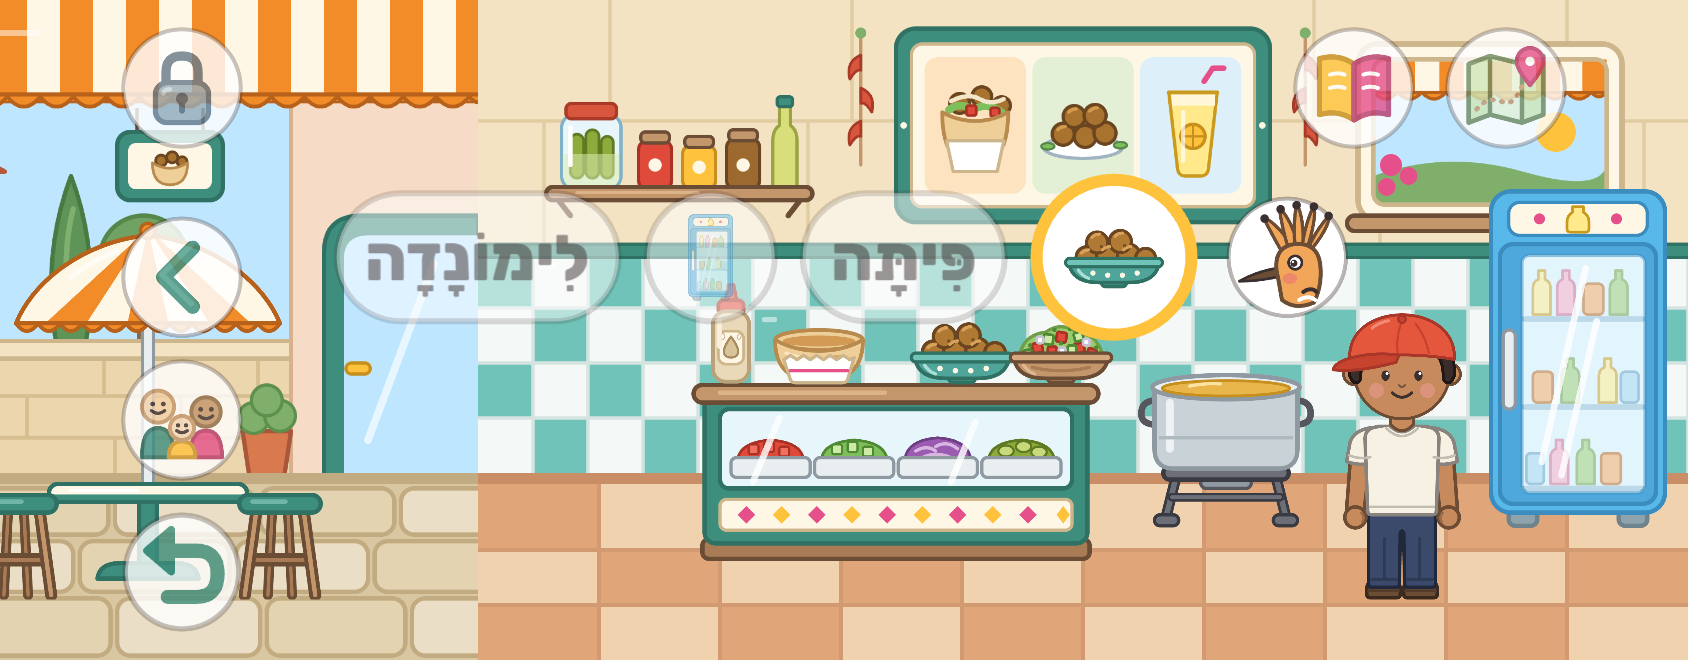
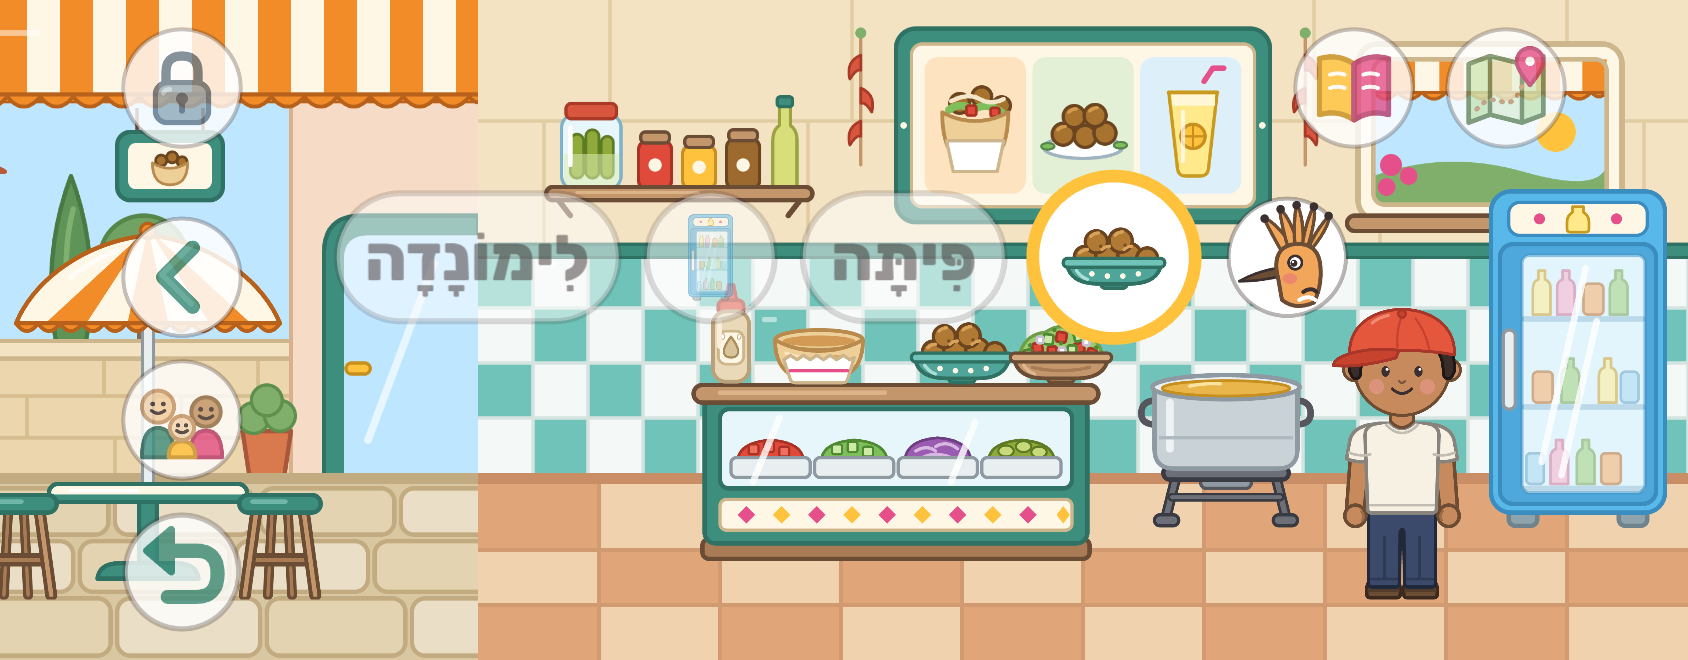
Stories step 2: progress notes, screenshots

Changed region(s): [[0.5853, 0.2424, 0.7085, 0.5455], [0.7701, 0.4545, 0.8626, 0.697], [0.8009, 0.7576, 0.8626, 0.7879]]

diff --git a/docs/progress.md b/docs/progress.md
@@ -440,6 +440,22 @@
 - **סיפור שמסופר שוב לא נותן מדבקה נוספת**, ומסתיים במשפט הסיום בלבד.
 - **כשהסיפורים כבויים אין לשוניות בספר**, והוא נראה בדיוק כמו קודם.
 - **בבדיקות** מסך הגיל מופיע רק עם `?e2e&pick`, כדי ששאר הבדיקות לא ייעצרו עליו.
+- **הדוכיפת עומדת על הקרקע ליד המקום, מימין**, ולא על הגג. על הגג של מקום בשורה העליונה היא הייתה מוסתרת בטלפון מתחת לכפתור הספר. אם היא עדיין יוצאת מהמסך או נכנסת מתחת לכפתורים, היא זזה כמה שצריך.
+- **פתיחה שנקטעה נאמרת שוב.** מי שנכנס למקום לפני שהדוכיפת סיימה לומר את משפט הפתיחה, שומע אותו שם.
+- **מסך "מי משחק היום?" מתעלם מנגיעות ב-0.7 השניות הראשונות**, כדי שנגיעה כפולה ב"גע כדי להתחיל" לא תבחר גיל בטעות.
+- **בודק בלתי תלוי עבר על כל השינויים:** שום דבר קריטי, ארבעה דברים חשובים שתוקנו (שלושת האחרונים למעלה, ובדיקות שהיו חסרות למדבקה ולשמות הסיפורים), ושמונה קטנים שנדחו ורשומים למטה.
+- **בדיקות:** 191 בדיקות יחידה, lint, ו-260 בדיקות במשחק באייפד ובאייפון עוברות (16 מדולגות בכוונה: בדיקות טלפון שלא רצות באייפד).
+
+נדחה (קטן, מהבודק):
+- שמירה ישנה עם סיפור באמצע ובלי גיל: בחירת הציור מתחילה את הסיפור מחדש בלי להחזיר את החפצים למקומם.
+- הדוכיפת במפה מכסה פינה של המקום שלידו היא עומדת. נגיעה שם אומרת את המשפט שוב במקום להיכנס.
+- הריחוף של הדוכיפת והזוהר לא מתחשבים בהגדרת "פחות תנועה" של המכשיר.
+- עם סיפור אחד, הרמז לילד שלא נוגע והזוהר במפה מצביעים תמיד על הפלאפליה.
+- סיפור שהמקום שלו נעול היה חוסם את הסיפורים שאחריו (היום כל המקומות פתוחים).
+- המפה מוצאת את ציור המקום דרך מבנה פנימי שביר (`children[0].children[0]`).
+- מדבקה שעוד לא הושגה היא ציור חיוור ולא צללית אחידה.
+- השאלה "מי משחק היום?" נאמרת פעם אחת, בלי חזרה אם הילד לא נוגע.
+- אין בדיקה שהמדבקה באמת עפה לספר (נבדקים רק המשפט והמקום שלה באלבום).
 
 ## מחכה לדודו
 - **לשחק בשלב 2:** לפתוח את המשחק מהמפה, לראות את הדוכיפת ליד הפלאפליה, לסיים סיפור ולראות את המדבקה בספר.
